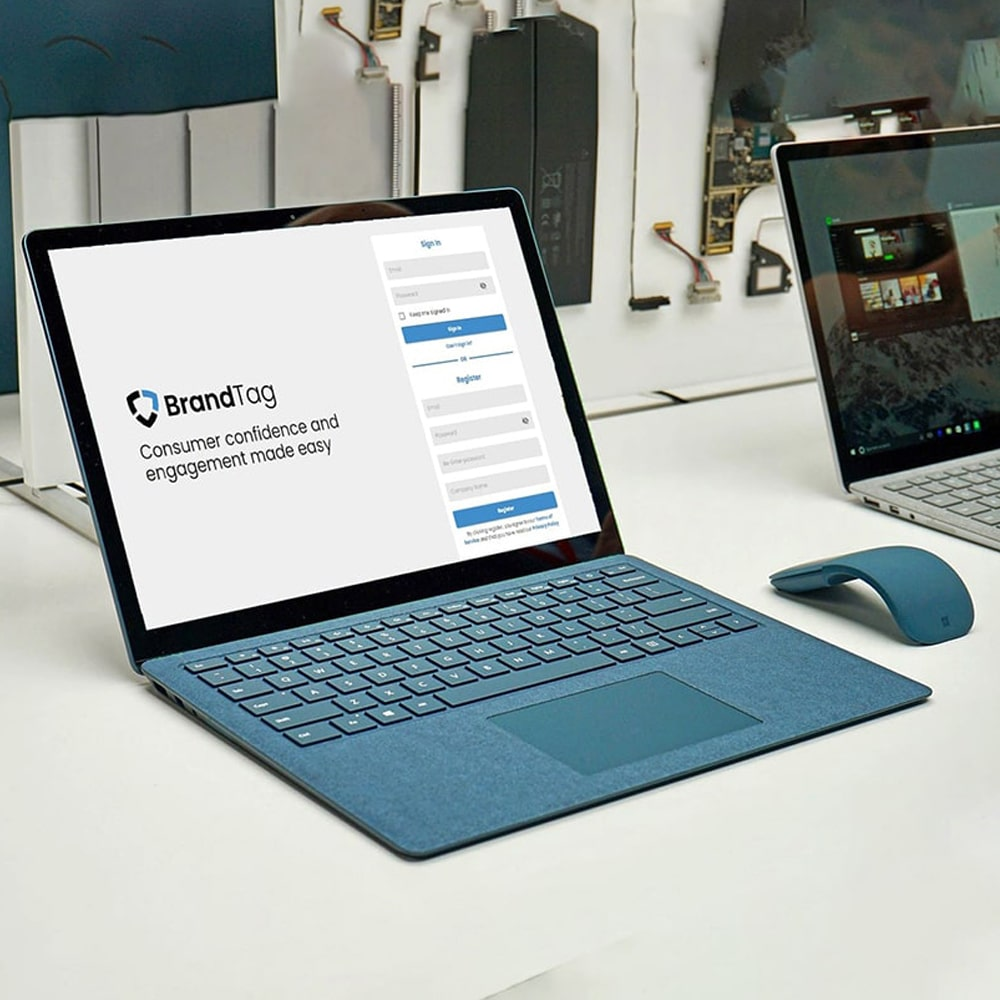
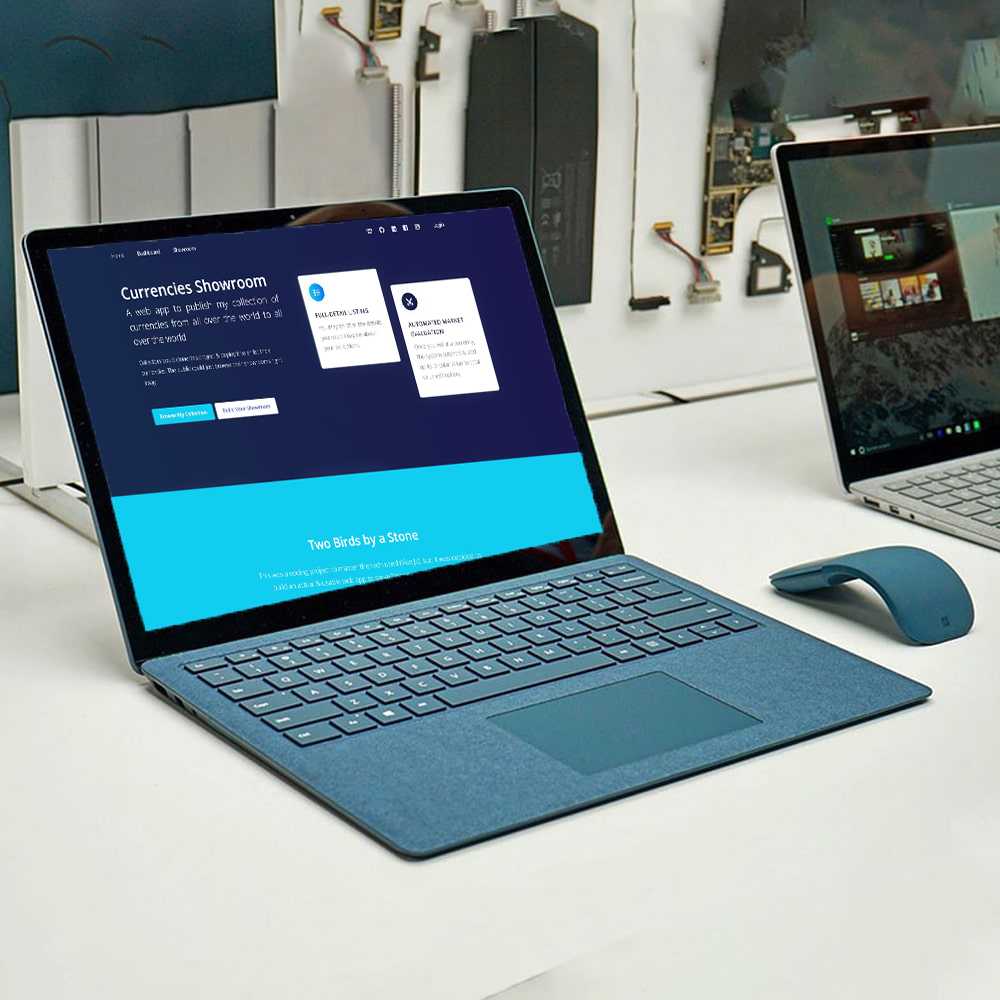
Works Screenshot Update

Changed region(s): [[0.031, 0.186, 0.62, 0.651]]

diff --git a/src/resumeData.js b/src/resumeData.js
@@ -338,7 +338,7 @@ const Data = {
             {
                "category": "Web App",
                "description": "Frontend Dev of PERN-Based Web App (Collaborative)",
-               "image": `${portfolioLink}/7.jpg`,
+               "image": `${portfolioLink}/11.jpg`,
                "title": "BrandTag",
                "url": "https://app.brandtag.io/"
             },
@@ -352,7 +352,7 @@ const Data = {
             {
                "category": "Web App",
                "description": "Full-Stack Dev of Vue-Django-Based Web App (Soon to be Launched)",
-               "image": `${portfolioLink}/11.jpg`,
+               "image": `${portfolioLink}/7.jpg`,
                "title": "Currency Showroom",
                "url": "https://github.com/makkahwi/currencies-showroom"
             },
@@ -408,9 +408,9 @@ const Data = {
             {
                "category": "Web App",
                "description": "Full-Stack Dev of React-Django-Based Web App (Coollebraive)",
-               "image": `${portfolioLink}/10.jpg`,
+               "image": `${portfolioLink}/13.jpg`,
                "title": "Tadreebi",
-               "url": "https://tadreebi.vercel.app/"
+               "url": "https://tadreebi.netlify.app/"
             },
             {
                "category": "Wordpress Websites",
